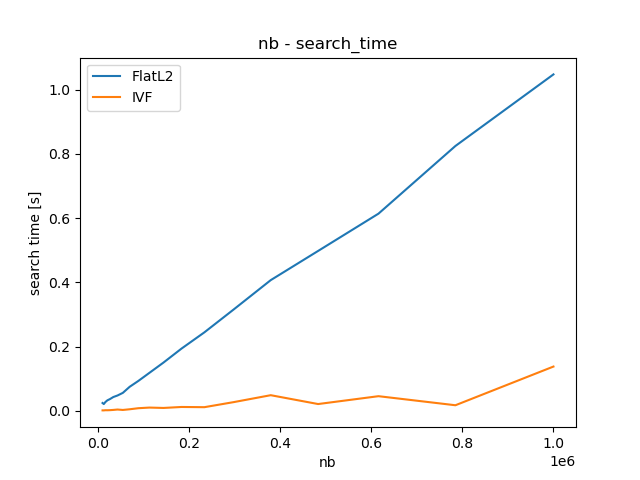
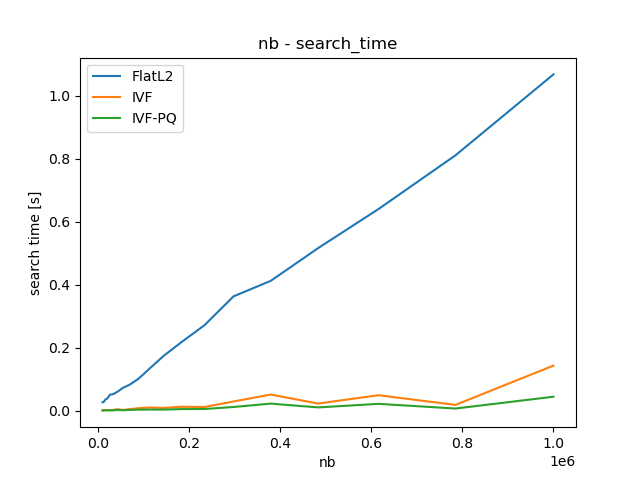
IVFPQを追加した。

diff --git a/model/ivfpq.py b/model/ivfpq.py
@@ -1,0 +1,57 @@
+import sys
+import os
+sys.path.append(os.path.join(os.path.dirname(__file__), ".."))
+
+import faiss
+from data.data import make_data
+import time
+
+class IVFPQ():
+  def __init__(self, k, nlist, m):
+    """
+    k : top-k  search up to k th nearest neighbor
+    nlist : K in PQ. number of columns in code book.
+    m : M in PQ. number of rows in code book. quatinization.
+    """
+    self.k = k
+    self.nlist = nlist
+    self.m = m
+    self.name = "IVF-PQ"
+
+  def train(self, xb, d):
+    """
+    returns 
+        time_train  : time elapsed during training
+    """
+    quantizer = faiss.IndexFlatL2(d)
+    self.index = faiss.IndexIVFPQ(quantizer, d, self.nlist, self.m, 8)
+    assert not self.index.is_trained
+
+    start = time.time()
+    self.index.train(xb)
+    time_train = time.time() - start
+    assert self.index.is_trained
+    self.index.add(xb)
+
+    return time_train
+  
+  def search(self, xq):
+    """
+    returns 
+        D : distance nearest k neighbor (n, k)
+        I : Id nearest k neighbor (n, k)
+        time_search : time spend at searchings
+    """
+    assert self.index.is_trained
+    start = time.time()
+    D, I = self.index.search(xq, self.k)
+    time_search = time.time() - start
+    return D, I, time_search
+  
+if __name__=="__main__":
+  obj = IVFPQ(k = 4, nlist = 100, m = 4)
+  xb, xq, d = make_data()
+  time_train = obj.train(xb, d)
+  _, I, time_search = obj.search(xq)
+  print(I[-5:])
+  print(f"time : {time_search}")

diff --git a/compare.py b/compare.py
@@ -4,13 +4,15 @@ import matplotlib.pyplot as plt
 from data.data import make_data
 from model.linear import FlatL2
 from model.ivf import IVF
+from model.ivfpq import IVFPQ
 
 def main():
   # モデル定義
   k = 4
   flatL2 = FlatL2(k = k)
   ivf = IVF(k = k, nlist = 100, nprobe = 3)
-  models = [flatL2, ivf]
+  ivfpq = IVFPQ(k = k, nlist = 100, m = 8)
+  models = [flatL2, ivf, ivfpq]
   
   nb_list = np.logspace(4, 6, 20).astype("int")
   nq_list = [1000]
